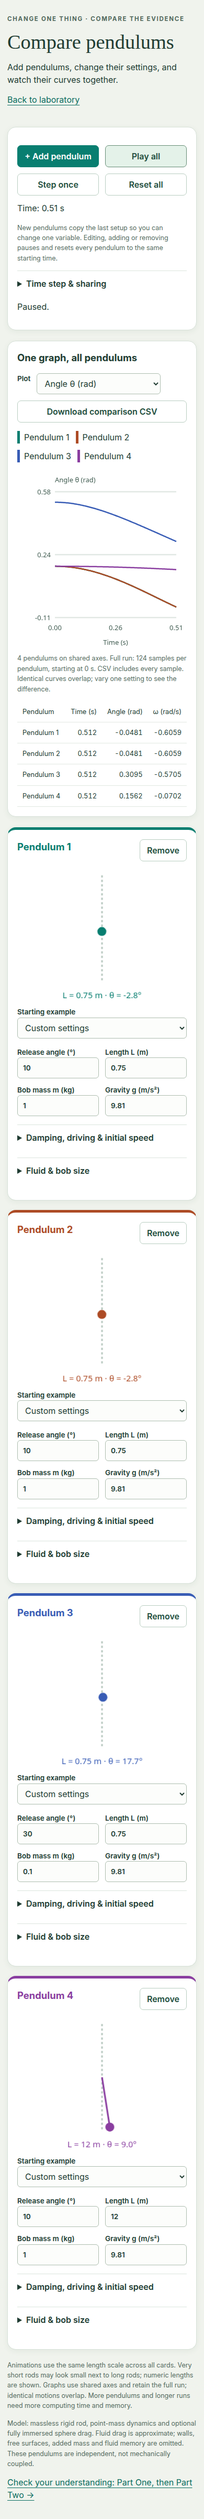
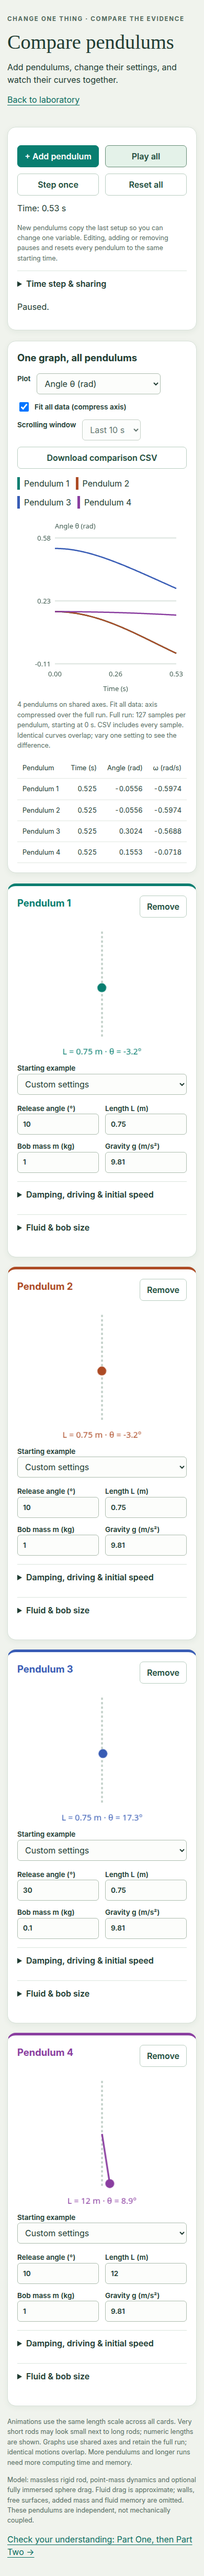
feat: add scrolling graph windows to pendulum comparison

diff --git a/src/compare.ts b/src/compare.ts
@@ -51,7 +51,7 @@ try {
 }
 get('comparison-app').innerHTML = `<header><div><p class="eyebrow">Change one thing · compare the evidence</p><h1>Compare pendulums</h1><p>Add pendulums, change their settings, and watch their curves together.</p></div><a href="./">Back to laboratory</a></header><main>
 <section class="card"><div class="comparison-controls"><button id="add-pendulum" class="primary">+ Add pendulum</button><button id="comparison-play">Play all</button><button id="comparison-step">Step once</button><button id="comparison-reset">Reset all</button><span id="comparison-time" role="status">Time: 0.00 s</span></div><p class="hint">New pendulums copy the last setup so you can change one variable. Editing, adding or removing pauses and resets every pendulum to the same starting time.</p><details><summary>Time step & sharing</summary><label for="comparison-dt">Shared output step (s)</label><select id="comparison-dt"><option value="${1/60}">1/60</option><option value="${1/120}">1/120</option><option value="${1/240}">1/240</option><option value="${1/480}">1/480</option></select><p class="hint">All pendulums use the same clock. Halve the step to check demanding settings.</p><button id="comparison-share">Copy comparison link</button><label for="comparison-link">Comparison link</label><input id="comparison-link" readonly></details><p id="comparison-notice" role="status"></p></section>
-<section class="card" style="margin-top:20px"><h2>One graph, all pendulums</h2><div class="comparison-controls"><label for="comparison-plot">Plot</label><select id="comparison-plot"><option value="theta">Angle θ (rad)</option><option value="omega">Angular velocity ω (rad/s)</option><option value="totalEnergy">Mechanical energy E (J)</option><option value="phase">Phase: ω against θ</option><option value="x">Horizontal position x (m)</option><option value="y">Downward position y (m)</option></select><button id="comparison-export">Download comparison CSV</button></div><ul id="comparison-legend" class="comparison-legend"></ul><canvas id="comparison-graph" width="1000" height="420" aria-label="Overlaid pendulum traces on shared axes. Live numerical values and a downloadable CSV are provided below."></canvas><p id="comparison-caption" class="hint"></p><div id="comparison-values" class="comparison-table"></div></section>
+<section class="card" style="margin-top:20px"><h2>One graph, all pendulums</h2><div class="comparison-controls"><label for="comparison-plot">Plot</label><select id="comparison-plot"><option value="theta">Angle θ (rad)</option><option value="omega">Angular velocity ω (rad/s)</option><option value="totalEnergy">Mechanical energy E (J)</option><option value="phase">Phase: ω against θ</option><option value="x">Horizontal position x (m)</option><option value="y">Downward position y (m)</option></select><label class="comparison-fit"><input id="comparison-fit-all" type="checkbox" checked> Fit all data (compress axis)</label><label for="comparison-window">Scrolling window</label><select id="comparison-window" disabled><option value="10">Last 10 s</option><option value="30">Last 30 s</option></select><button id="comparison-export">Download comparison CSV</button></div><ul id="comparison-legend" class="comparison-legend"></ul><canvas id="comparison-graph" width="1000" height="420" aria-label="Overlaid pendulum traces on shared axes. Live numerical values and a downloadable CSV are provided below."></canvas><p id="comparison-caption" class="hint"></p><div id="comparison-values" class="comparison-table"></div></section>
 <div id="pendulum-cards" class="comparison-grid"></div><p class="hint">Animations use the same length scale across all cards. Very short rods may look small next to long rods; numeric lengths are shown. Graphs use shared axes and retain the full run; identical motions overlap. More pendulums and longer runs need more computing time and memory.</p><p class="hint">Model: massless rigid rod, point-mass dynamics and optional fully immersed sphere drag. Fluid drag is approximate; walls, free surfaces, added mass and fluid memory are omitted. These pendulums are independent, not mechanically coupled.</p><p><a href="./quiz.html">Check your understanding: Part One, then Part Two →</a></p></main>`;
 get<HTMLSelectElement>('comparison-dt').value=String(dt);
 function notice(message: string) { get('comparison-notice').textContent=message; }
@@ -115,7 +115,7 @@ function advance(): boolean {
   catch(error) {resetAll(`Calculation stopped and all runs reset: ${String(error)} Try a smaller time step or less extreme settings.`);return false;}
 }
 get('comparison-step').addEventListener('click',()=>{pause();if(validInputs())advance();draw();});
-get('comparison-plot').addEventListener('change',draw);
+for(const id of ['comparison-plot','comparison-fit-all','comparison-window'])get(id).addEventListener('change',draw);
 get('comparison-share').addEventListener('click',async()=>{
   if(!validInputs())return;
   updateLink();try {await navigator.clipboard.writeText(get<HTMLInputElement>('comparison-link').value);notice('Comparison link copied.');}catch{notice('Select and copy the comparison link shown above.');}
@@ -150,9 +150,15 @@ function draw() {
 }
 function drawGraph() {
   const selection=get<HTMLSelectElement>('comparison-plot').value;
-  const lines=runs.map(r=>({r,points:r.history.plotValues().map(s=>({x:selection==='phase'?s.theta:s.time,y:selection==='phase'?s.omega:s[selection as 'theta'|'omega'|'totalEnergy'|'x'|'y']}))}));
+  const fitAll=get<HTMLInputElement>('comparison-fit-all').checked;
+  const seconds=Number(get<HTMLSelectElement>('comparison-window').value);
+  get<HTMLSelectElement>('comparison-window').disabled=fitAll;
+  const last=runs[0].engine.getState().time;
+  const start=fitAll?0:Math.max(0,last-seconds);
+  const lines=runs.map(r=>({r,points:(fitAll?r.history.plotValues():r.history.window(start,s=>s.time)).map(s=>({x:selection==='phase'?s.theta:s.time,y:selection==='phase'?s.omega:s[selection as 'theta'|'omega'|'totalEnergy'|'x'|'y']}))}));
   let xmin=Infinity,xmax=-Infinity,ymin=Infinity,ymax=-Infinity;
   for(const line of lines)for(const p of line.points){xmin=Math.min(xmin,p.x);xmax=Math.max(xmax,p.x);ymin=Math.min(ymin,p.y);ymax=Math.max(ymax,p.y);}
+  if(selection!=='phase' && !fitAll){xmin=start;xmax=Math.max(last,start+1e-9);}
   if(xmin===xmax)xmax=xmin+1;
   const pad=Math.max((ymax-ymin)*.1,Math.max(Math.abs(ymin),Math.abs(ymax))*.001,1e-5);ymin-=pad;ymax+=pad;
   const canvas=get<HTMLCanvasElement>('comparison-graph');
@@ -172,7 +178,8 @@ function drawGraph() {
   }
   lines.forEach(({r,points})=>{ctx.strokeStyle=color(r.id);ctx.lineWidth=2.5;ctx.setLineDash(dash(r.id));ctx.beginPath();points.forEach((p,i)=>{if(i===0)ctx.moveTo(X(p.x),Y(p.y));else ctx.lineTo(X(p.x),Y(p.y));});ctx.stroke();ctx.setLineDash([]);});
   ctx.fillStyle='#435e53';ctx.textAlign='left';ctx.fillText(get<HTMLSelectElement>('comparison-plot').selectedOptions[0].text,left,22);ctx.textAlign='center';ctx.fillText(selection==='phase'?'Angle θ (rad)':'Time (s)',(left+right)/2,height-8);
-  get('comparison-caption').textContent=`${runs.length} pendulum${runs.length===1?'':'s'} on shared axes. Full run: ${runs[0].history.total.toLocaleString()} samples per pendulum, starting at 0 s. CSV includes every sample. Identical curves overlap; vary one setting to see the difference.`;
+  canvas.dataset.startTime=String(start);canvas.dataset.endTime=String(last);
+  get('comparison-caption').textContent=`${runs.length} pendulum${runs.length===1?'':'s'} on shared axes. ${fitAll?'Fit all data: axis compressed over the full run.':`Showing the last ${seconds} seconds (${start.toFixed(2)}–${last.toFixed(2)} s).`} Full run: ${runs[0].history.total.toLocaleString()} samples per pendulum, starting at 0 s. CSV includes every sample. Identical curves overlap; vary one setting to see the difference.`;
 }
 function frame(now:number) {
   const elapsed=previous?Math.min((now-previous)/1000,.1):0;previous=now;

diff --git a/tests/compare.spec.ts b/tests/compare.spec.ts
@@ -42,3 +42,14 @@ test('comparison invalid shared setups fall back safely',async({page})=>{
  await page.goto('/compare.html?comparison='+encodeURIComponent(JSON.stringify({dt:1/240,pendulums:[{length:-1}]})));
  await expect(page.locator('#comparison-notice')).toContainText('invalid');await expect(page.locator('#p1-length')).toHaveValue('0.75');
 });
+
+
+test('comparison supports fit-all and scrolling windows without losing history',async({page})=>{
+ await page.goto('/compare.html');await page.clock.install();await expect(page.locator('#comparison-fit-all')).toBeChecked();await expect(page.locator('#comparison-window')).toBeDisabled();
+ await page.locator('#comparison-play').click();await page.clock.runFor(35000);await page.locator('#comparison-play').click();
+ const graph=page.locator('#comparison-graph'),end=Number(await graph.getAttribute('data-end-time'));expect(end).toBeGreaterThan(30);
+ await page.locator('#comparison-fit-all').uncheck();await expect(page.locator('#comparison-window')).toBeEnabled();expect(Number(await graph.getAttribute('data-start-time'))).toBeCloseTo(Number(await graph.getAttribute('data-end-time'))-10,5);
+ await page.locator('#comparison-window').selectOption('30');expect(Number(await graph.getAttribute('data-start-time'))).toBeCloseTo(Number(await graph.getAttribute('data-end-time'))-30,5);
+ await page.locator('#comparison-plot').selectOption('phase');await expect(page.locator('#comparison-caption')).toContainText('last 30 seconds');
+ await page.locator('#comparison-fit-all').check();expect(await graph.getAttribute('data-start-time')).toBe('0');await expect(page.locator('#comparison-caption')).toContainText('starting at 0 s');
+});

diff --git a/src/compare.css b/src/compare.css
@@ -15,3 +15,5 @@
 .comparison-table th:first-child {text-align:left}
 #comparison-notice {min-height:1.5em}
 @media(max-width:600px){.comparison-controls {align-items:stretch}.comparison-controls button{flex:1 1 120px}}
+
+.comparison-fit {display:flex;align-items:center;gap:8px}.comparison-fit input{width:18px;height:18px}

diff --git a/CONTEXT.md b/CONTEXT.md
@@ -101,3 +101,5 @@ User authorized Git push and deployment. Target: publish remote ishwrknt/2D-Nonl
 Application commit:6d1fdf70f6228434482ff3ff441baaefc0e76af5, pushed to publish remote/main (ishwrknt/2D-Nonlinear-Simple-Pendulum-Simulation). GitHub Pages run44140677401 succeeded including npm test and independent physics validation.
 Live quiz:https://ishwrknt.github.io/2D-Nonlinear-Simple-Pendulum-Simulation/quiz.html
 Live Chromium smoke:HTTP200; registration, four level choices, BSc first question, answer feedback and simulation load without page errors. Screenshot:validation/deployed-assessment-smoke.png. A local preview port conflict was isolated without stopping the unrelated project. Deployment documentation commit uses [skip ci] because application is already verified/deployed.
+
+Comparison graph follow-up: added default checked Fit all data checkbox and Last10/Last30-second scrolling selector, matching main laboratory. Both time series and phase plots respect selected history window. Raw recording/CSV remain full run. Production build passed; comparison regression tests include >30s window switching and return to start at0. User explicitly requested Git push after completion.

diff --git a/HANDOVER.md b/HANDOVER.md
@@ -99,3 +99,5 @@ User authorized Git push and deployment. Target: publish remote ishwrknt/2D-Nonl
 Application commit:6d1fdf70f6228434482ff3ff441baaefc0e76af5, pushed to publish remote/main (ishwrknt/2D-Nonlinear-Simple-Pendulum-Simulation). GitHub Pages run44140677401 succeeded including npm test and independent physics validation.
 Live quiz:https://ishwrknt.github.io/2D-Nonlinear-Simple-Pendulum-Simulation/quiz.html
 Live Chromium smoke:HTTP200; registration, four level choices, BSc first question, answer feedback and simulation load without page errors. Screenshot:validation/deployed-assessment-smoke.png. A local preview port conflict was isolated without stopping the unrelated project. Deployment documentation commit uses [skip ci] because application is already verified/deployed.
+
+Comparison graph follow-up: added default checked Fit all data checkbox and Last10/Last30-second scrolling selector, matching main laboratory. Both time series and phase plots respect selected history window. Raw recording/CSV remain full run. Production build passed; comparison regression tests include >30s window switching and return to start at0. User explicitly requested Git push after completion.

diff --git a/PROGRESS.md b/PROGRESS.md
@@ -40,3 +40,5 @@ User review follow-up: made Time axis → Fit all data (compress axis) explicit 
 - [x] Student identity, randomized 93-question bank, four pathways, two sequential required parts, optional harder challenge and strictly >60% certificate. Final evidence: 24 Node tests and 19 Chromium tests; see docs/learning-check.md.
 
 - [x] User-authorized push/deployment:6d1fdf7; Pages run44140677401 successful; public assessment browser smoke passed.
+
+Comparison graph follow-up: added default checked Fit all data checkbox and Last10/Last30-second scrolling selector, matching main laboratory. Both time series and phase plots respect selected history window. Raw recording/CSV remain full run. Production build passed; comparison regression tests include >30s window switching and return to start at0. User explicitly requested Git push after completion.
